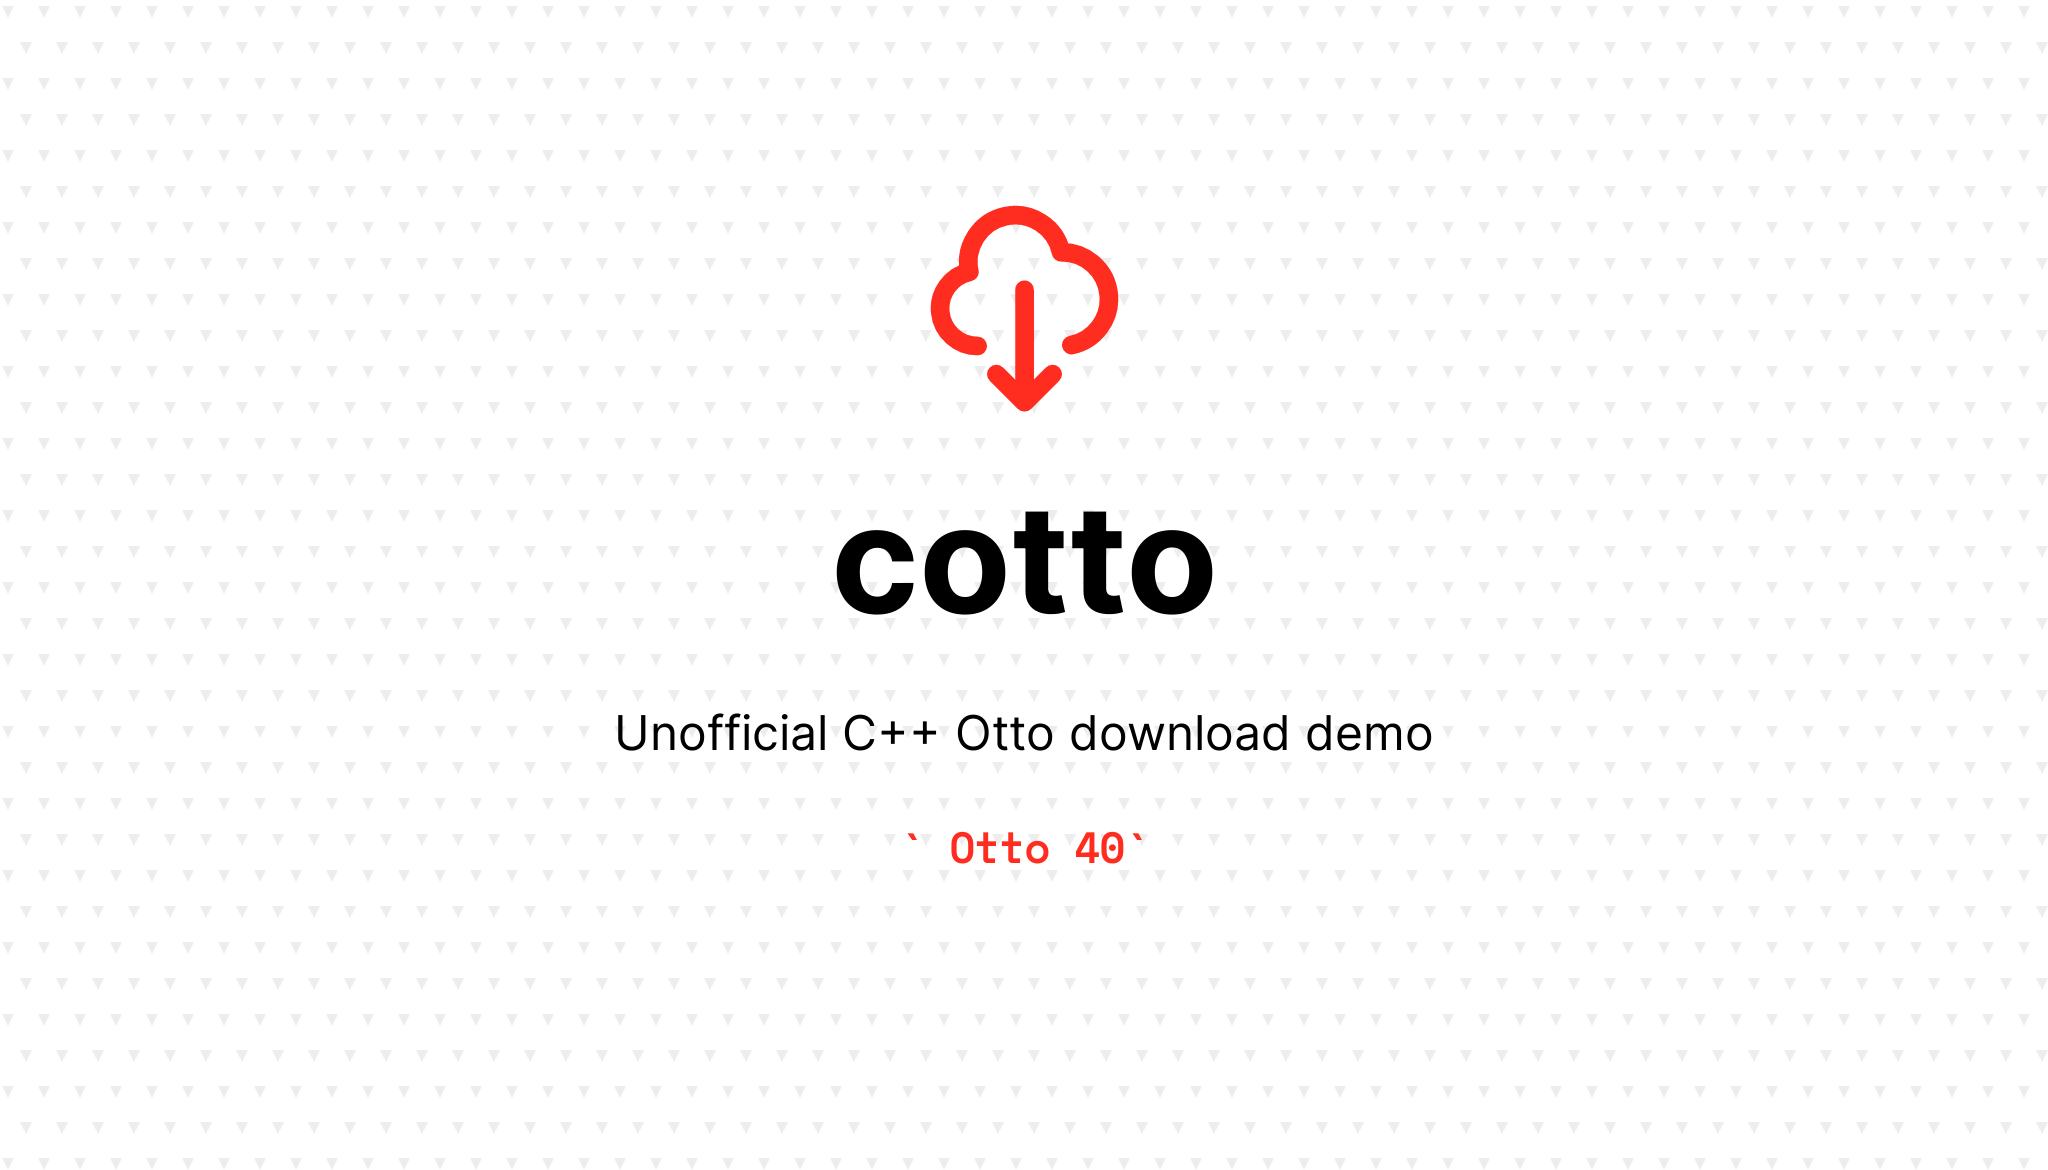
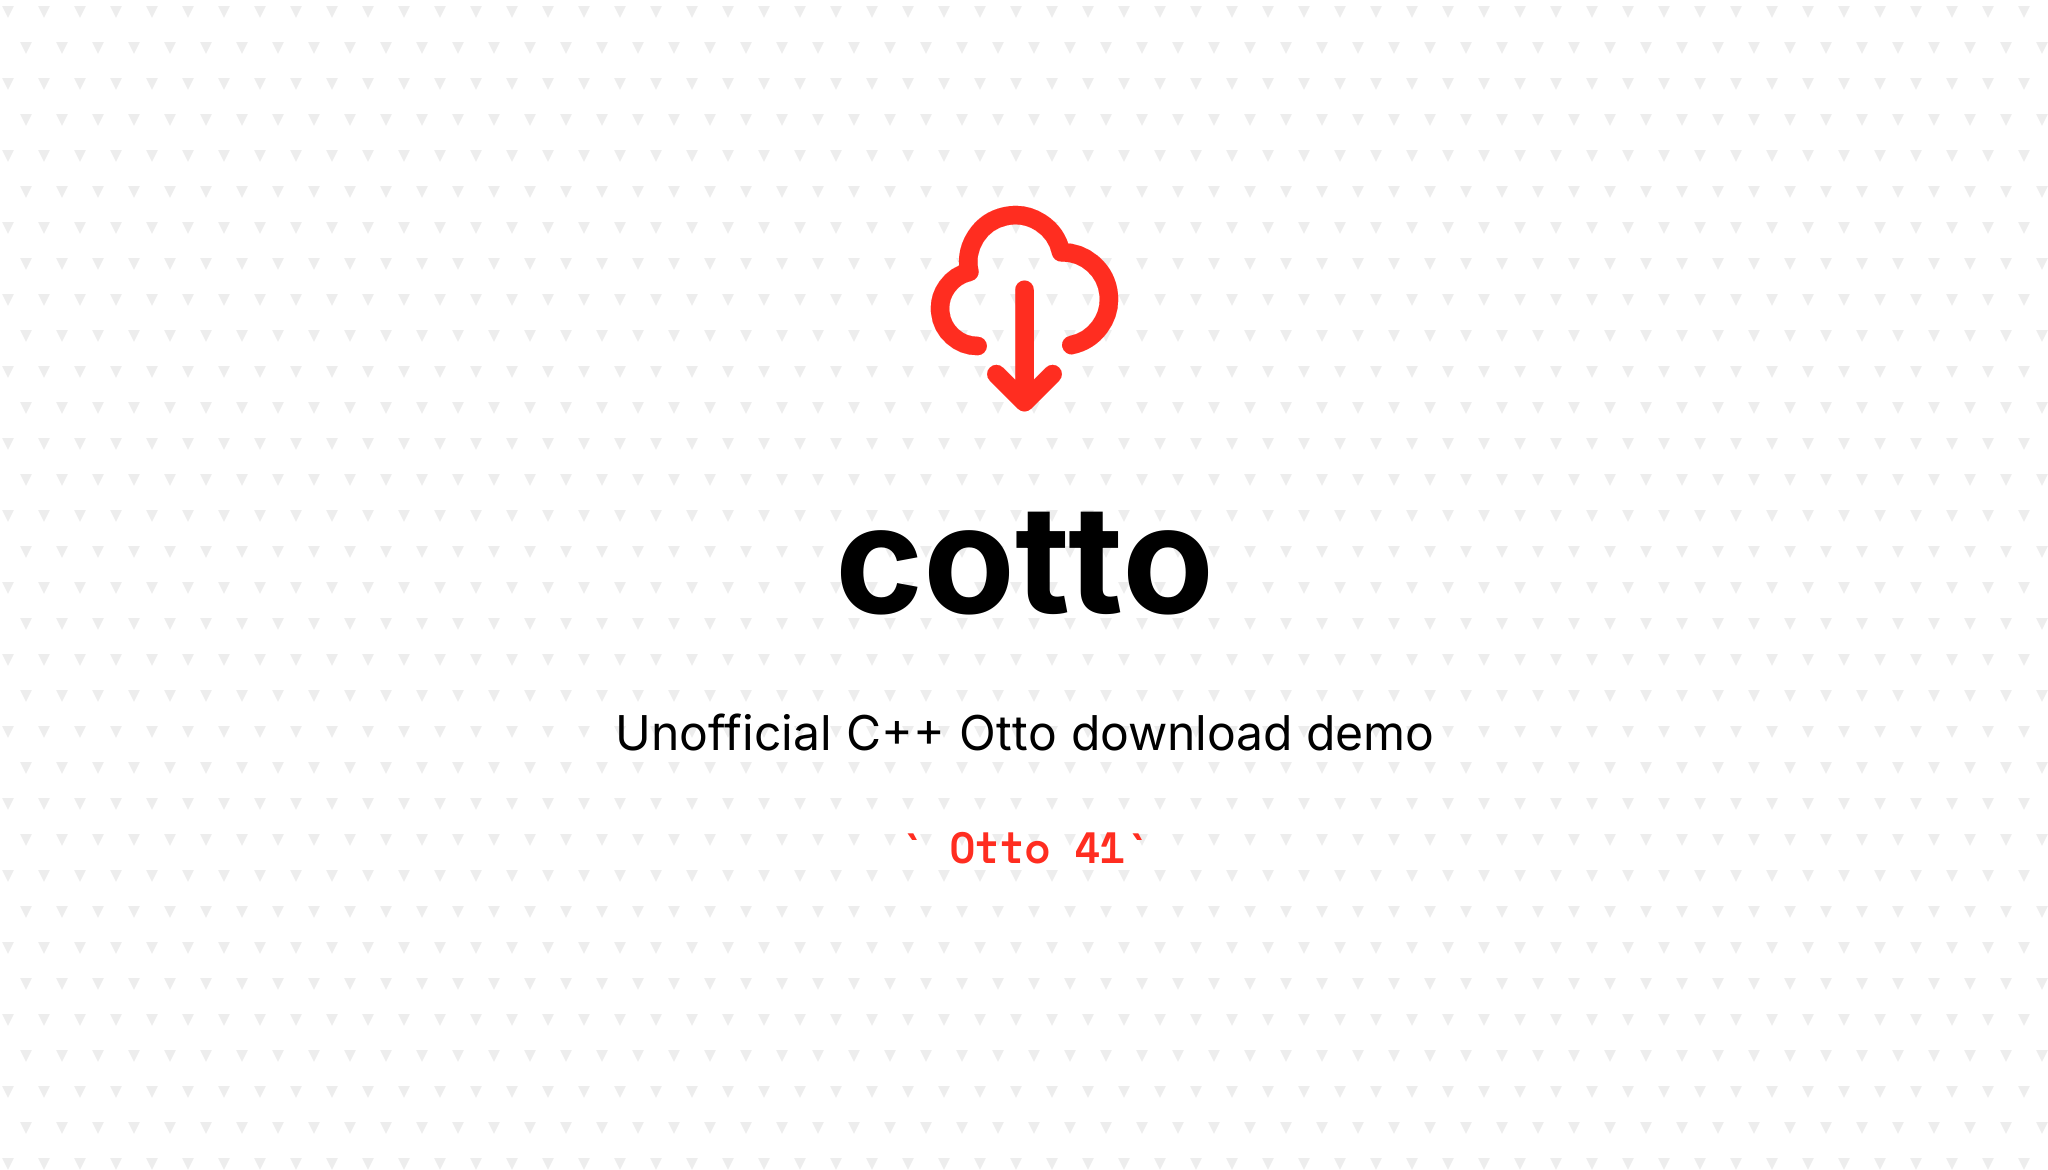
chore: Otto 41.1.3 and adjust READMEs and help text

Changed region(s): [[0.4062, 0.4308, 0.5938, 0.5231], [0.3125, 0.6154, 0.6562, 0.6462], [0.5312, 0.7077, 0.5625, 0.7385]]

diff --git a/cotto.cpp b/cotto.cpp
@@ -237,7 +237,7 @@ int main(const int argc, char *argv[]) {
         std::cerr << "Usage:" << std::endl;
         std::cerr << "" << argv[0] << std::endl;
         std::cerr << "  -u objectUuid\t\tUUID of object to download (mandatory)" << std::endl;
-        std::cerr << "  -m size\t\tDownload object in-memory and allocate provided Bytes of memory (optional, max: 10485760 Bytes), when not provided or exceeds max download blockwise" << std::endl;
+        std::cerr << "  -m size\t\tAllocate provided Bytes of memory and download object in-memory (optional, max: 10485760 Bytes), when not provided or exceeds max download blockwise" << std::endl;
         std::cerr << "  -e extension\t\tSet filename extension of downloaded content [optional, default: \"txt\"]" << std::endl;
         std::cerr << "  -p password\t\tPassword for certificate [optional, default: \"123456\"]" << std::endl;
         std::cerr << "  -f\t\t\tForce file overwriting [optional, default: false]" << std::endl;

diff --git a/README.md b/README.md
@@ -10,13 +10,14 @@ Notice: This demo is **not intended for productive usage**!
 
 ELSTER introduced on May 27th, 2024, a new library called Otto, which can be used to download objects from OTTER (Object Storage in ELSTER). The reason why ELSTER introduced the project and library is, that the current solution hit its limits. Otto was introduced together with a new version of Datenabholung.
 
-The currently available way of data retrieval with ERiC will be replaced client-side in ERiC version 41 (end November 2024; only Datenabholung v31 will be available) and server-side with the planned yearly minimal version increase mid-April 2025 (exact date TBA in 2025; only ERiC >= v41 with Datenabholung v31 can be used after that date). Therefore, a majority of software developers using currently ERiC Datenabholung will have to implement Otto in production by April 2025.
+The currently available way of data retrieval with ERiC will be replaced client-side in ERiC version 41 (on November 25th, 2024; only Datenabholung v31 will be available) and server-side with the planned yearly minimal version increase mid-April 2025 (exact date TBA in 2025; only ERiC >= v41 with Datenabholung v31 can be used after that date). Therefore, a majority of software developers using currently ERiC Datenabholung will have to implement Otto in production by April 2025.
 
 ## Usage
 
 ```bash
 ./cotto
   -u objectUuid         UUID of object to download (mandatory)
+  -m size               Allocate provided Bytes of memory and download object in-memory (optional, max: 10485760 Bytes), cf. Download modes
   -e extension          Set filename extension of downloaded content [default: "txt"]
   -p password           Password for certificate [default: "123456"]
   -f                    Force file overwriting [default: false]
@@ -79,6 +80,14 @@ Hint: The downloaded result will be saved in the same directory as `cotto`, unle
 ## Environment variables
 
 All supported environment variables are listed in [`.env.example`](.env.example). Feel free to copy them to `.env`, adjust accordingly and source for usage.
+
+## Download modes
+
+The demo showcases two methods for downloading objects: blockwise (default) and in-memory. Otter and Otto operates by design in a memory efficient way - streaming data and forwarding it to the desired storage blockwise. That is the optimal and memory-efficient way for big files. ELSTER engineers wrapped all needed calls and the download workflow in one function `OttoDatenAbholen()`, which simplifies the implementation and stores the complete object temporarily in-memory.
+
+This demo can operate in both modes. To download in-memory add option `-m` with a value exceeding `0` and not exceeding `10485760` Bytes (10 MiB). It is recommended to use the in-memory mode with objects where the final size is known and not exceeding (an arbitraly set) size of 10485760 Bytes.
+
+Hint: `-m` sets the minimal allocated memory size. When the object is bigger then the set size - Otto allocates as much as need and as much as available memory. Use at your own risk.
 
 ## Docker
 

diff --git a/CHANGELOG.md b/CHANGELOG.md
@@ -2,6 +2,18 @@
 
 All notable changes to `cotto` will be documented in this file.
 
+## v1.2.1 - 2024-10-21
+- Tested and runnable with Otto 41.1.3
+- Adjustments in READMEs and help text
+
+**Full Changelog**: https://github.com/rechtlogisch/cotto/commits/v1.2.1
+
+## v1.2.0 - 2024-10-18
+- Utilizes Otto 40.3.4
+- Adds flag -m, which incorporates a newly introduced simplified function to download objects in-memory, instead of downloading them blockwise
+
+**Full Changelog**: https://github.com/rechtlogisch/cotto/commits/v1.2.0
+
 ## v1.1.0 - 2024-07-29
 - Utilizes Otto 40.2.8
 - Supports most security tokens (Abholzertifikat not implemented in this demo)

diff --git a/vendor/README.md b/vendor/README.md
@@ -1,0 +1,9 @@
+Place here:
+
+  - (lib)otto.{so|dylib|dll}
+  - (lib)eSigner.{so|dylib|dll}
+  - otto.h
+  - otto_statuscode.h
+  - otto_types.h
+
+originating from [ERiC-*.jar](https://www.elster.de/elsterweb/entwickler/infoseite/eric)

diff --git a/certificate/README.md b/certificate/README.md
@@ -1,0 +1,1 @@
+Run `../get-test-certificate.sh` or copy your .pfx-file|CEZ here manually.
